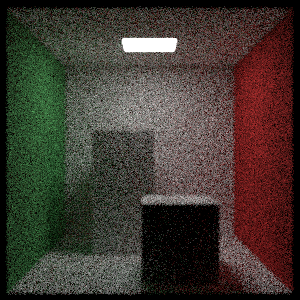
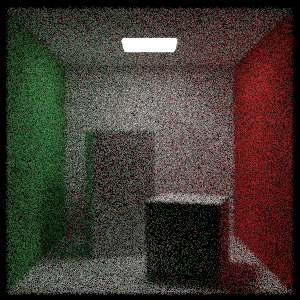
chap 8 done

diff --git a/02-08/hittable.h b/02-08/hittable.h
@@ -38,3 +38,116 @@ public:
 
   virtual ~Hittable() = default;
 };
+
+class Translate final : public Hittable {
+    public:
+    Translate(std::shared_ptr<Hittable> p, const Vec3 &displacement) : ptr(p), offset(displacement) {}
+    bool hit(const Ray &r, double t_min, double t_max, HitRecord &rec) const override;
+    virtual bool bounding_box(double time0, double time1, Aabb &output_box) const override;
+
+    private:
+    std::shared_ptr<Hittable> ptr;
+    Vec3 offset;
+};
+
+bool Translate::hit(const Ray &r, double t_min, double t_max, HitRecord &rec) const {
+    Ray moved_r(r.origin() - offset, r.direction(), r.time());
+    if (!ptr->hit(moved_r, t_min, t_max, rec)) {
+        return false;
+    }
+    rec.p += offset;
+    rec.set_face_normal(moved_r, rec.normal);
+
+    return true;
+}
+
+bool Translate::bounding_box(double time0, double time1, Aabb &output_box) const {
+    if (!ptr->bounding_box(time0, time1, output_box)) {
+        return false;
+    }
+    output_box = Aabb(output_box.min() + offset, output_box.max() + offset);
+
+    return true;
+}
+
+class rotateY : public Hittable {
+    public:
+    rotateY(std::shared_ptr<Hittable> p, double angle);
+
+    virtual bool hit(const Ray &r, double t_min, double t_max, HitRecord &rec) const override;
+
+    virtual bool bounding_box(double time0, double time1, Aabb &output_box) const override {
+        output_box = bbox;
+        return hasbox;
+    }
+
+    private:
+    std::shared_ptr<Hittable> ptr;
+    double sin_theta;
+    double cos_theta;
+    bool hasbox;
+    Aabb bbox;
+};
+
+rotateY::rotateY(std::shared_ptr<Hittable> p, double angle) : ptr(p) {
+    auto radians = degrees_to_radians(angle);
+    sin_theta = std::sin(radians);
+    cos_theta = std::cos(radians);
+    hasbox = ptr->bounding_box(0,1,bbox);
+
+    Point3 min(inf, inf, inf);
+    Point3 max(-inf, -inf, -inf);
+
+    for (int i = 0; i < 2; i++) {
+        for (int j = 0; j < 2; j++) {
+            for (int k = 0; k < 2; k++) {
+                auto x = i*bbox.max().x() + (1-i)*bbox.min().x();
+                auto y = j*bbox.max().y() + (1-j)*bbox.min().y();
+                auto z = k*bbox.max().z() + (1-k)*bbox.min().z();
+
+                auto newx = cos_theta*x + sin_theta*z;
+                auto newz = -sin_theta*x + cos_theta*z;
+
+                Vec3 tester(newx, y, newz);
+
+                for (int c = 0; c < 3; c++) {
+                    min[c] = std::min(min[c], tester[c]);
+                    max[c] = std::max(max[c], tester[c]);
+                }
+            }
+        }
+    }
+
+    bbox = Aabb(min, max);
+}
+
+bool rotateY::hit(const Ray &r, double t_min, double t_max, HitRecord &rec) const {
+    auto origin = r.origin();
+    auto direction = r.direction();
+
+    origin[0] = cos_theta*r.origin()[0] - sin_theta*r.origin()[2];
+    origin[2] = sin_theta*r.origin()[0] + cos_theta*r.origin()[2];
+
+    direction[0] = cos_theta*r.direction()[0] - sin_theta*r.direction()[2];
+    direction[2] = sin_theta*r.direction()[0] + cos_theta*r.direction()[2];
+
+    Ray rotated_r(origin, direction, r.time());
+
+    if (!ptr->hit(rotated_r, t_min, t_max, rec)) {
+        return false;
+    }
+
+    auto p = rec.p;
+    auto normal = rec.normal;
+
+    p[0] = cos_theta*rec.p[0] + sin_theta*rec.p[2];
+    p[2] = -sin_theta*rec.p[0] + cos_theta*rec.p[2];
+
+    normal[0] = cos_theta*rec.normal[0] + sin_theta*rec.normal[2];
+    normal[2] = -sin_theta*rec.normal[0] + cos_theta*rec.normal[2];
+
+    rec.p = p;
+    rec.set_face_normal(rotated_r, normal);
+
+    return true;
+}

diff --git a/02-08/main.cpp b/02-08/main.cpp
@@ -172,8 +172,15 @@ HittableList cornell_box() {
   objects.add(std::make_shared<xyRect>(0, 555, 0, 555, 555, white));
 
   // boxes
-  objects.add(std::make_shared<Box>(Point3(130, 0, 65), Point3(295, 165, 230), white));
-  objects.add(std::make_shared<Box>(Point3(265, 0, 295), Point3(430, 330, 460), white));
+  std::shared_ptr<Hittable> box1 = std::make_shared<Box>(Point3(0, 0, 0), Point3(165, 330, 165), white);
+  box1 = std::make_shared<rotateY>(box1, 15);
+  box1 = std::make_shared<Translate>(box1, Vec3(265, 0, 295));  
+  objects.add(box1);
+
+  std::shared_ptr<Hittable> box2 = std::make_shared<Box>(Point3(0, 0, 0), Point3(165, 165, 165), white);
+  box2 = std::make_shared<rotateY>(box2, -18);
+  box2 = std::make_shared<Translate>(box2, Vec3(130,0,65));
+  objects.add(box2);
 
   return objects;
 }
